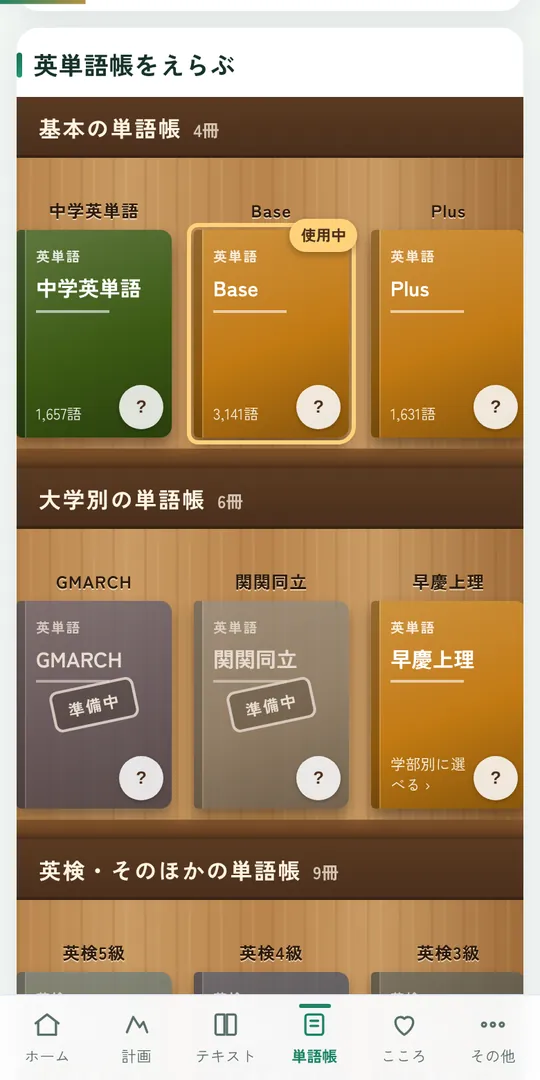
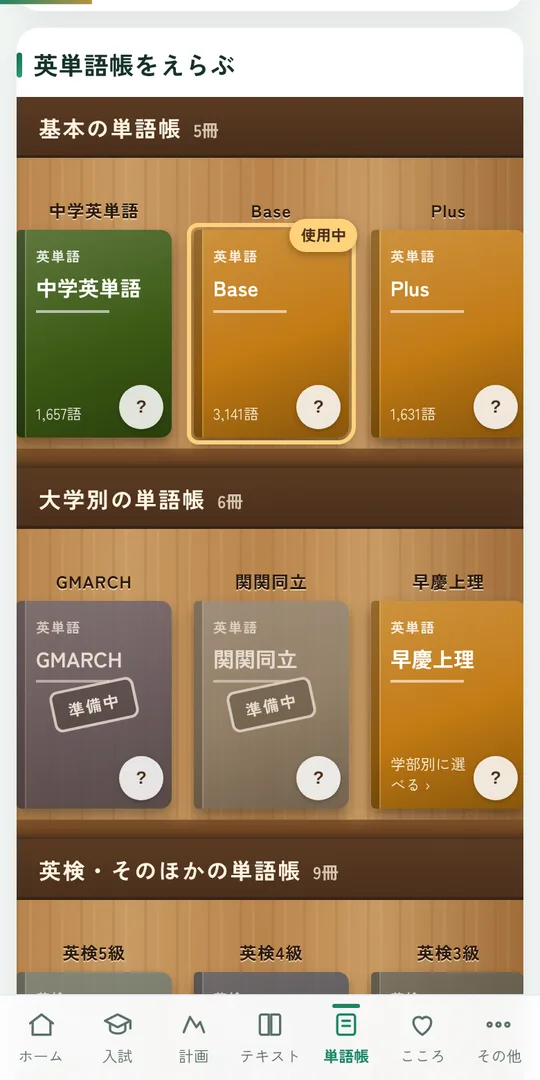
サービス紹介:ハイライトを作り替え(12グループ34枚)。歴史の教科書・入試と面接を新設し、テキスト・資料(日本史の地図)・単語帳(用語集と時代・地域で選ぶ)・一問一答(全教科)を最新の画面と説明に。PCでは丸を6個ずつ2段に
Claude-Session: https://claude.ai/code/session_01LBACWHU1zm5FViu8vPc4HC

diff --git a/home.html b/home.html
@@ -35,7 +35,7 @@
   <link rel="preconnect" href="https://fonts.googleapis.com">
   <link rel="preconnect" href="https://fonts.gstatic.com" crossorigin>
   <link href="https://fonts.googleapis.com/css2?family=Allura&family=Zen+Kaku+Gothic+New:wght@400;500;700&display=swap" rel="stylesheet">
-  <link rel="stylesheet" href="css/home.css?v=20261109j">
+  <link rel="stylesheet" href="css/home.css?v=20261111a">
 </head>
 <body>
   <script src="js/intro.js?v=20261108a"></script>
@@ -155,18 +155,18 @@
   <h2 class="ttl"><span class="en">Highlights</span><span class="ja">アプリでできること</span></h2>
   <p class="sec-lead">授業のない日も、アプリが「次にやること」を決めてくれます。<br class="pc">丸いアイコンをタップすると、実際の画面をストーリー形式で見られます。<br class="pc">画面の右上で、スマホ版とパソコン版を切りかえられます。</p>
   <ul class="hl-stats fade">
-    <li><em>テキスト</em><p><b data-stat="units">286</b><span>単元</span></p><small>中学〜高校の全単元に、<br>教科書レベルの解説</small></li>
-    <li><em>単語帳</em><p><b data-stat="words">32,040</b><span>語</span></p><small>英単語・英熟語・古文の<br>単語帳<span data-stat="books">24</span>冊</small></li>
+    <li><em>テキスト</em><p><b data-stat="units">286</b><span>単元</span></p><small>中学〜高校の全単元の解説と、<br>歴史の教科書3冊(84ページ)</small></li>
+    <li><em>単語帳</em><p><b data-stat="words">32,040</b><span>語</span></p><small>英単語・古文に、17冊の用語集。<br>単語帳<span data-stat="books">24</span>冊</small></li>
     <li><em>一問一答</em><p><b data-stat="hq">6,596</b><span>問</span></p><small>日本史<span data-stat="jhq">1,857</span>問・世界史<span data-stat="whq">2,156</span>問<br>ほか<span data-stat="iqn">8</span>教科<span data-stat="iq">2,583</span>問</small></li>
     <li><em>論述</em><p><b data-stat="ron">749</b><span>題</span></p><small>歴史・地理・公民<br>倫理・理科の論述</small></li>
   </ul>
-  <ul class="hl-circles" aria-label="ハイライト"><li><button type="button" class="hlc" data-hl="0" aria-label="ホーム のハイライトを見る(2枚)"><span class="hlc-ring"><img src="img/hl/home1_s.webp?v=20261109e" width="160" height="160" alt="Aqualium アプリの「ホーム」画面" loading="lazy"></span><b>ホーム</b></button></li><li><button type="button" class="hlc" data-hl="1" aria-label="分析 のハイライトを見る(3枚)"><span class="hlc-ring"><img src="img/hl/ana1_s.webp?v=20261109e" width="160" height="160" alt="Aqualium アプリの「分析」画面" loading="lazy"></span><b>分析</b></button></li><li><button type="button" class="hlc" data-hl="2" aria-label="テキスト のハイライトを見る(4枚)"><span class="hlc-ring"><img src="img/hl/txt3_s.webp?v=20261109e" width="160" height="160" alt="Aqualium アプリの「テキスト」画面" loading="lazy"></span><b>テキスト</b></button></li><li><button type="button" class="hlc" data-hl="3" aria-label="歴史の図解 のハイライトを見る(3枚)"><span class="hlc-ring"><img src="img/hl/zk1_s.webp?v=20261109e" width="160" height="160" alt="Aqualium アプリの「歴史の図解」画面" loading="lazy"></span><b>歴史の図解</b></button></li><li><button type="button" class="hlc" data-hl="4" aria-label="解説・資料 のハイライトを見る(3枚)"><span class="hlc-ring"><img src="img/hl/kit1_s.webp?v=20261109e" width="160" height="160" alt="Aqualium アプリの「解説・資料」画面" loading="lazy"></span><b>解説・資料</b></button></li><li><button type="button" class="hlc" data-hl="5" aria-label="計画 のハイライトを見る(3枚)"><span class="hlc-ring"><img src="img/hl/plan1_s.webp?v=20261109e" width="160" height="160" alt="Aqualium アプリの「計画」画面" loading="lazy"></span><b>計画</b></button></li><li><button type="button" class="hlc" data-hl="6" aria-label="単語帳 のハイライトを見る(3枚)"><span class="hlc-ring"><img src="img/hl/voc1_s.webp?v=20261109e" width="160" height="160" alt="Aqualium アプリの「単語帳」画面" loading="lazy"></span><b>単語帳</b></button></li><li><button type="button" class="hlc" data-hl="7" aria-label="日本史・世界史 のハイライトを見る(2枚)"><span class="hlc-ring"><img src="img/hl/his1_s.webp?v=20261109e" width="160" height="160" alt="Aqualium アプリの「日本史・世界史」画面" loading="lazy"></span><b>日本史・世界史</b></button></li><li><button type="button" class="hlc" data-hl="8" aria-label="模試モード のハイライトを見る(1枚)"><span class="hlc-ring"><img src="img/hl/mock1_s.webp?v=20261109e" width="160" height="160" alt="Aqualium アプリの「模試モード」画面" loading="lazy"></span><b>模試モード</b></button></li><li><button type="button" class="hlc" data-hl="9" aria-label="先生・保護者 のハイライトを見る(2枚)"><span class="hlc-ring"><img src="img/hl/tut1_s.webp?v=20261109e" width="160" height="160" alt="Aqualium アプリの「先生・保護者」画面" loading="lazy"></span><b>先生・保護者</b></button></li></ul>
-  <ul class="hl-list fade"><li><button type="button" class="hl-item" data-hl="0"><img class="hl-item-img" src="img/hl/home1_s.webp?v=20261109e" width="160" height="160" alt="Aqualium アプリの「ホーム」画面" loading="lazy"><span class="hl-item-n">01</span><b>ホーム</b><small>いま一番効果の高い学習を、アプリが1つだけ示します。迷ったら、ここを押すだけ。</small><em>2枚の画面を見る ▶</em></button></li><li><button type="button" class="hl-item" data-hl="1"><img class="hl-item-img" src="img/hl/ana1_s.webp?v=20261109e" width="160" height="160" alt="Aqualium アプリの「分析」画面" loading="lazy"><span class="hl-item-n">02</span><b>分析</b><small>現代文・古文・漢文、日本史・世界史…。科目ごとの正答率をレーダーチャートで。1か月前の自分とも比べられます。</small><em>3枚の画面を見る ▶</em></button></li><li><button type="button" class="hl-item" data-hl="2"><img class="hl-item-img" src="img/hl/txt3_s.webp?v=20261109e" width="160" height="160" alt="Aqualium アプリの「テキスト」画面" loading="lazy"><span class="hl-item-n">03</span><b>テキスト</b><small>中学から高校まで、科目ごとの教科書が本棚に並びます。全286単元に、知識ゼロから読める解説。</small><em>4枚の画面を見る ▶</em></button></li><li><button type="button" class="hl-item" data-hl="3"><img class="hl-item-img" src="img/hl/zk1_s.webp?v=20261109e" width="160" height="160" alt="Aqualium アプリの「歴史の図解」画面" loading="lazy"><span class="hl-item-n">04</span><b>歴史の図解</b><small>地域ごとの流れと、世界全体をまきこむ大事件を、色ブロックで1枚に。</small><em>3枚の画面を見る ▶</em></button></li><li><button type="button" class="hl-item" data-hl="4"><img class="hl-item-img" src="img/hl/kit1_s.webp?v=20261109e" width="160" height="160" alt="Aqualium アプリの「解説・資料」画面" loading="lazy"><span class="hl-item-n">05</span><b>解説・資料</b><small>答えのあとに「ほかの意味」やくわしい解説。元素の周期表と世界地図も、どのページからでも開けます。</small><em>3枚の画面を見る ▶</em></button></li><li><button type="button" class="hl-item" data-hl="5"><img class="hl-item-img" src="img/hl/plan1_s.webp?v=20261109e" width="160" height="160" alt="Aqualium アプリの「計画」画面" loading="lazy"><span class="hl-item-n">06</span><b>計画</b><small>志望校と受験日から、残り日数と目標を自動で設定します。</small><em>3枚の画面を見る ▶</em></button></li><li><button type="button" class="hl-item" data-hl="6"><img class="hl-item-img" src="img/hl/voc1_s.webp?v=20261109e" width="160" height="160" alt="Aqualium アプリの「単語帳」画面" loading="lazy"><span class="hl-item-n">07</span><b>単語帳</b><small>中学英単語・Base・Plus・英熟語・早慶上理(学部別)・古文単語。苦手だけを集めた「覚える単語帳」も作れます。</small><em>3枚の画面を見る ▶</em></button></li><li><button type="button" class="hl-item" data-hl="7"><img class="hl-item-img" src="img/hl/his1_s.webp?v=20261109e" width="160" height="160" alt="Aqualium アプリの「日本史・世界史」画面" loading="lazy"><span class="hl-item-n">08</span><b>日本史・世界史</b><small>時代(ヨコ)と分野(タテ)で範囲をしぼって出題。苦手な問題の聞き流しもできます。</small><em>2枚の画面を見る ▶</em></button></li><li><button type="button" class="hl-item" data-hl="8"><img class="hl-item-img" src="img/hl/mock1_s.webp?v=20261109e" width="160" height="160" alt="Aqualium アプリの「模試モード」画面" loading="lazy"><span class="hl-item-n">09</span><b>模試モード</b><small>時間を計って解き、最後にまとめて採点。科目別の得点率と時間配分を分析します。</small><em>1枚の画面を見る ▶</em></button></li><li><button type="button" class="hl-item" data-hl="9"><img class="hl-item-img" src="img/hl/tut1_s.webp?v=20261109e" width="160" height="160" alt="Aqualium アプリの「先生・保護者」画面" loading="lazy"><span class="hl-item-n">10</span><b>先生・保護者</b><small>苦手の原因・ミスの傾向・週のまとめを1枚に。授業や面談でそのまま使えます。</small><em>2枚の画面を見る ▶</em></button></li></ul>
+  <ul class="hl-circles" aria-label="ハイライト"><li><button type="button" class="hlc" data-hl="0" aria-label="ホーム のハイライトを見る(2枚)"><span class="hlc-ring"><img src="img/hl/home1_s.webp?v=20261109e" width="160" height="160" alt="Aqualium アプリの「ホーム」画面" loading="lazy"></span><b>ホーム</b></button></li><li><button type="button" class="hlc" data-hl="1" aria-label="分析 のハイライトを見る(3枚)"><span class="hlc-ring"><img src="img/hl/ana1_s.webp?v=20261109e" width="160" height="160" alt="Aqualium アプリの「分析」画面" loading="lazy"></span><b>分析</b></button></li><li><button type="button" class="hlc" data-hl="2" aria-label="テキスト のハイライトを見る(4枚)"><span class="hlc-ring"><img src="img/hl/txt1_s.webp?v=20261111a" width="160" height="160" alt="Aqualium アプリの「テキスト」画面" loading="lazy"></span><b>テキスト</b></button></li><li><button type="button" class="hlc" data-hl="3" aria-label="歴史の教科書 のハイライトを見る(3枚)"><span class="hlc-ring"><img src="img/hl/tb1_s.webp?v=20261111a" width="160" height="160" alt="Aqualium アプリの「歴史の教科書」画面" loading="lazy"></span><b>歴史の教科書</b></button></li><li><button type="button" class="hlc" data-hl="4" aria-label="歴史の図解 のハイライトを見る(3枚)"><span class="hlc-ring"><img src="img/hl/zk1_s.webp?v=20261109e" width="160" height="160" alt="Aqualium アプリの「歴史の図解」画面" loading="lazy"></span><b>歴史の図解</b></button></li><li><button type="button" class="hlc" data-hl="5" aria-label="解説・資料 のハイライトを見る(4枚)"><span class="hlc-ring"><img src="img/hl/kit1_s.webp?v=20261109e" width="160" height="160" alt="Aqualium アプリの「解説・資料」画面" loading="lazy"></span><b>解説・資料</b></button></li><li><button type="button" class="hlc" data-hl="6" aria-label="計画 のハイライトを見る(3枚)"><span class="hlc-ring"><img src="img/hl/plan1_s.webp?v=20261109e" width="160" height="160" alt="Aqualium アプリの「計画」画面" loading="lazy"></span><b>計画</b></button></li><li><button type="button" class="hlc" data-hl="7" aria-label="単語帳 のハイライトを見る(4枚)"><span class="hlc-ring"><img src="img/hl/voc1_s.webp?v=20261111a" width="160" height="160" alt="Aqualium アプリの「単語帳」画面" loading="lazy"></span><b>単語帳</b></button></li><li><button type="button" class="hlc" data-hl="8" aria-label="一問一答・論述 のハイライトを見る(3枚)"><span class="hlc-ring"><img src="img/hl/iq0_s.webp?v=20261111a" width="160" height="160" alt="Aqualium アプリの「一問一答・論述」画面" loading="lazy"></span><b>一問一答・論述</b></button></li><li><button type="button" class="hlc" data-hl="9" aria-label="入試・面接 のハイライトを見る(2枚)"><span class="hlc-ring"><img src="img/hl/ex1_s.webp?v=20261111a" width="160" height="160" alt="Aqualium アプリの「入試・面接」画面" loading="lazy"></span><b>入試・面接</b></button></li><li><button type="button" class="hlc" data-hl="10" aria-label="模試モード のハイライトを見る(1枚)"><span class="hlc-ring"><img src="img/hl/mock1_s.webp?v=20261109e" width="160" height="160" alt="Aqualium アプリの「模試モード」画面" loading="lazy"></span><b>模試モード</b></button></li><li><button type="button" class="hlc" data-hl="11" aria-label="先生・保護者 のハイライトを見る(2枚)"><span class="hlc-ring"><img src="img/hl/tut1_s.webp?v=20261109e" width="160" height="160" alt="Aqualium アプリの「先生・保護者」画面" loading="lazy"></span><b>先生・保護者</b></button></li></ul>
+  <ul class="hl-list fade"><li><button type="button" class="hl-item" data-hl="0"><img class="hl-item-img" src="img/hl/home1_s.webp?v=20261109e" width="160" height="160" alt="Aqualium アプリの「ホーム」画面" loading="lazy"><span class="hl-item-n">01</span><b>ホーム</b><small>いま一番効果の高い学習を、アプリが1つだけ示します。迷ったら、ここを押すだけ。</small><em>2枚の画面を見る ▶</em></button></li><li><button type="button" class="hl-item" data-hl="1"><img class="hl-item-img" src="img/hl/ana1_s.webp?v=20261109e" width="160" height="160" alt="Aqualium アプリの「分析」画面" loading="lazy"><span class="hl-item-n">02</span><b>分析</b><small>現代文・古文・漢文、日本史・世界史…。科目ごとの正答率をレーダーチャートで。1か月前の自分とも比べられます。</small><em>3枚の画面を見る ▶</em></button></li><li><button type="button" class="hl-item" data-hl="2"><img class="hl-item-img" src="img/hl/txt1_s.webp?v=20261111a" width="160" height="160" alt="Aqualium アプリの「テキスト」画面" loading="lazy"><span class="hl-item-n">03</span><b>テキスト</b><small>中学から高校まで、科目ごとの教科書が本棚に。全286単元に、知識ゼロから読める解説。数学は「別の解き方」も。</small><em>4枚の画面を見る ▶</em></button></li><li><button type="button" class="hl-item" data-hl="3"><img class="hl-item-img" src="img/hl/tb1_s.webp?v=20261111a" width="160" height="160" alt="Aqualium アプリの「歴史の教科書」画面" loading="lazy"><span class="hl-item-n">04</span><b>歴史の教科書</b><small>世界史は「世紀別(横)」と「国別(縦)」の2冊、日本史は「通史」。全84ページ・約40万字で、流れをていねいに。</small><em>3枚の画面を見る ▶</em></button></li><li><button type="button" class="hl-item" data-hl="4"><img class="hl-item-img" src="img/hl/zk1_s.webp?v=20261109e" width="160" height="160" alt="Aqualium アプリの「歴史の図解」画面" loading="lazy"><span class="hl-item-n">05</span><b>歴史の図解</b><small>地域ごとの流れと、世界全体をまきこむ大事件を、色ブロックで1枚に。</small><em>3枚の画面を見る ▶</em></button></li><li><button type="button" class="hl-item" data-hl="5"><img class="hl-item-img" src="img/hl/kit1_s.webp?v=20261109e" width="160" height="160" alt="Aqualium アプリの「解説・資料」画面" loading="lazy"><span class="hl-item-n">06</span><b>解説・資料</b><small>答えのあとに「ほかの意味」やくわしい解説。周期表、世界史・日本史の地図も、どのページからでも開けます。</small><em>4枚の画面を見る ▶</em></button></li><li><button type="button" class="hl-item" data-hl="6"><img class="hl-item-img" src="img/hl/plan1_s.webp?v=20261109e" width="160" height="160" alt="Aqualium アプリの「計画」画面" loading="lazy"><span class="hl-item-n">07</span><b>計画</b><small>志望校と受験日から、残り日数と目標を自動で設定します。</small><em>3枚の画面を見る ▶</em></button></li><li><button type="button" class="hl-item" data-hl="7"><img class="hl-item-img" src="img/hl/voc1_s.webp?v=20261111a" width="160" height="160" alt="Aqualium アプリの「単語帳」画面" loading="lazy"><span class="hl-item-n">08</span><b>単語帳</b><small>英単語・古文単語に加えて、現代文・漢文・歴史・地理・理科・情報など17冊の用語集。合計3万語以上。</small><em>4枚の画面を見る ▶</em></button></li><li><button type="button" class="hl-item" data-hl="8"><img class="hl-item-img" src="img/hl/iq0_s.webp?v=20261111a" width="160" height="160" alt="Aqualium アプリの「一問一答・論述」画面" loading="lazy"><span class="hl-item-n">09</span><b>一問一答・論述</b><small>一問一答は日本史・世界史から理科・倫理・文学史まで10教科6,596問。論述は9教科749題。</small><em>3枚の画面を見る ▶</em></button></li><li><button type="button" class="hl-item" data-hl="9"><img class="hl-item-img" src="img/hl/ex1_s.webp?v=20261111a" width="160" height="160" alt="Aqualium アプリの「入試・面接」画面" loading="lazy"><span class="hl-item-n">10</span><b>入試・面接</b><small>入試の日程・方式・科目と、面接対策。大学・文部科学省などの公開情報から、出典つきでまとめています。</small><em>2枚の画面を見る ▶</em></button></li><li><button type="button" class="hl-item" data-hl="10"><img class="hl-item-img" src="img/hl/mock1_s.webp?v=20261109e" width="160" height="160" alt="Aqualium アプリの「模試モード」画面" loading="lazy"><span class="hl-item-n">11</span><b>模試モード</b><small>時間を計って解き、最後にまとめて採点。科目別の得点率と時間配分を分析します。</small><em>1枚の画面を見る ▶</em></button></li><li><button type="button" class="hl-item" data-hl="11"><img class="hl-item-img" src="img/hl/tut1_s.webp?v=20261109e" width="160" height="160" alt="Aqualium アプリの「先生・保護者」画面" loading="lazy"><span class="hl-item-n">12</span><b>先生・保護者</b><small>苦手の原因・ミスの傾向・週のまとめを1枚に。授業や面談でそのまま使えます。</small><em>2枚の画面を見る ▶</em></button></li></ul>
   <div class="hl-cta fade">
     <p>気になる機能は見つかりましたか?<br>まずは無料体験で、<br class="sp">実際に使ってみてください。</p>
     <a href="#contact" class="btn btn-primary">無料体験を申し込む</a>
   </div>
-  <script type="application/json" id="hlData">[{"id": "home", "name": "ホーム", "slides": [{"img": "img/hl/home1.webp?v=20261109e", "t": "次の一手", "d": "いま一番効果の高い学習を、アプリが1つだけ示します。迷ったら、ここを押すだけ。"}, {"img": "img/hl/home3.webp?v=20261109e", "t": "診断・練習", "d": "ホームの上のタブで切りかえ。診断テストで、中学の単元までさかのぼって苦手の原因を探します。"}]}, {"id": "ana", "name": "分析", "slides": [{"img": "img/hl/ana1.webp?v=20261109e", "t": "科目バランス", "d": "現代文・古文・漢文、日本史・世界史…。科目ごとの正答率をレーダーチャートで。1か月前の自分とも比べられます。"}, {"img": "img/hl/ana2.webp?v=20261109e", "t": "ミスの原因", "d": "「ケアレスミス」「覚えていなかった」など、まちがえた理由を集計。いちばん多い原因と対策がわかります。"}, {"img": "img/hl/ana3.webp?v=20261109e", "t": "今週のまとめ", "d": "学習日数・時間・解いた問題・正答率を、先週と比べて表示。伸びたところがひと目でわかります。"}]}, {"id": "txt", "name": "テキスト", "slides": [{"img": "img/hl/txt1.webp?v=20261109e", "t": "科目ごとの本棚", "d": "中学から高校まで、科目ごとの教科書が本棚に並びます。続きからすぐ読めます。"}, {"img": "img/hl/txt2.webp?v=20261109e", "t": "目次", "d": "章と単元の一覧。読んだ単元・しおり・苦手な単元に印がつきます。"}, {"img": "img/hl/txt3.webp?v=20261109e", "t": "知識ゼロから読める本文", "d": "「できるようになること → イメージ → 説明」の順。全286単元に解説があります。"}, {"img": "img/hl/txt4.webp?v=20261109e", "t": "黒板の例題", "d": "考え方を1手順ずつ。読み終えたら、そのまま確認問題を解けます。"}]}, {"id": "zk", "name": "歴史の図解", "slides": [{"img": "img/hl/zk1.webp?v=20261109e", "t": "世界史の流れ", "d": "地域ごとの流れと、世界全体をまきこむ大事件を、色ブロックで1枚に。"}, {"img": "img/hl/zk2.webp?v=20261109e", "t": "模式地図", "d": "清の直轄領・藩部・朝貢国などを、位置関係で整理します。"}, {"img": "img/hl/zk3.webp?v=20261109e", "t": "因果の鎖", "d": "背景 → できごと → 結果 → その後。なぜ起きて、どうなったかがつながります。"}]}, {"id": "kit", "name": "解説・資料", "slides": [{"img": "img/hl/kit1.webp?v=20261109e", "t": "もっと知る", "d": "答えたあとに、くわしい解説と、語句の「ほかの意味」・使い方を表示。1語から何倍も学べます。"}, {"img": "img/hl/kit2.webp?v=20261109e", "t": "元素の周期表", "d": "どのページを開いていても、すぐに呼び出せます。元素を押すと、原子量・分類・常温での状態まで。"}, {"img": "img/hl/kit3.webp?v=20261111a", "t": "世界史の領土地図", "d": "前3400年から2024年まで、国と領土の移り変わりを1年・10年・100年単位で。年を入れるか、できごとを選ぶとその年の勢力図に。国を押すと、年を変えても色をつけたまま追いかけます。"}]}, {"id": "plan", "name": "計画", "slides": [{"img": "img/hl/plan1.webp?v=20261109e", "t": "逆算ロードマップ", "d": "志望校と受験日から、残り日数と目標を自動で設定します。"}, {"img": "img/hl/plan2.webp?v=20261109e", "t": "受験日までのタイムライン", "d": "単元・英単語・古文単語・一問一答の進め方を、1本の線で見渡せます。"}, {"img": "img/hl/plan3.webp?v=20261109e", "t": "単元マップ", "d": "全単元の定着度を色で表示。忘れかけている単元もすぐ見つかります。"}]}, {"id": "voc", "name": "単語帳", "slides": [{"img": "img/hl/voc1.webp?v=20261109e", "t": "単語帳を選ぶ", "d": "中学英単語・Base・Plus・英熟語・早慶上理(学部別)・古文単語。苦手だけを集めた「覚える単語帳」も作れます。"}, {"img": "img/hl/voc2.webp?v=20261109e", "t": "学び方を選ぶ", "d": "赤シート・苦手選別・聞き流し・スワイプなど、気分や場所に合わせて選べます。"}, {"img": "img/hl/voc3.webp?v=20261109e", "t": "4択テスト", "d": "テンポよく答えて、まちがえた語は自動で復習に回ります。"}]}, {"id": "his", "name": "日本史・世界史", "slides": [{"img": "img/hl/his1.webp?v=20261109e", "t": "一問一答", "d": "時代(ヨコ)と分野(タテ)で範囲をしぼって出題。苦手な問題の聞き流しもできます。"}, {"img": "img/hl/his2.webp?v=20261109e", "t": "論述トレーニング", "d": "答えを考えてから、模範解答のキーワードで自己採点します。"}]}, {"id": "mock", "name": "模試モード", "slides": [{"img": "img/hl/mock1.webp?v=20261109e", "t": "本番形式の模試", "d": "時間を計って解き、最後にまとめて採点。科目別の得点率と時間配分を分析します。"}]}, {"id": "tut", "name": "先生・保護者", "slides": [{"img": "img/hl/tut1.webp?v=20261109e", "t": "指導分析レポート", "d": "苦手の原因・ミスの傾向・週のまとめを1枚に。授業や面談でそのまま使えます。"}, {"img": "img/hl/tut2.webp?v=20261109e", "t": "学習の記録", "d": "日別の解答数や科目バランスを、先生・保護者と共有できます。"}]}]</script>
+  <script type="application/json" id="hlData">[{"id": "home", "name": "ホーム", "slides": [{"img": "img/hl/home1.webp?v=20261109e", "t": "次の一手", "d": "いま一番効果の高い学習を、アプリが1つだけ示します。迷ったら、ここを押すだけ。"}, {"img": "img/hl/home3.webp?v=20261109e", "t": "診断・練習", "d": "ホームの上のタブで切りかえ。診断テストで、中学の単元までさかのぼって苦手の原因を探します。"}]}, {"id": "ana", "name": "分析", "slides": [{"img": "img/hl/ana1.webp?v=20261109e", "t": "科目バランス", "d": "現代文・古文・漢文、日本史・世界史…。科目ごとの正答率をレーダーチャートで。1か月前の自分とも比べられます。"}, {"img": "img/hl/ana2.webp?v=20261109e", "t": "ミスの原因", "d": "「ケアレスミス」「覚えていなかった」など、まちがえた理由を集計。いちばん多い原因と対策がわかります。"}, {"img": "img/hl/ana3.webp?v=20261109e", "t": "今週のまとめ", "d": "学習日数・時間・解いた問題・正答率を、先週と比べて表示。伸びたところがひと目でわかります。"}]}, {"id": "txt", "name": "テキスト", "slides": [{"img": "img/hl/txt1.webp?v=20261111a", "t": "科目ごとの本棚", "d": "中学から高校まで、科目ごとの教科書が本棚に並びます。歴史の教科書3冊と「面接対策」の本も入りました。"}, {"img": "img/hl/txt2.webp?v=20261109e", "t": "目次", "d": "章と単元の一覧。読んだ単元・しおり・苦手な単元に印がつきます。"}, {"img": "img/hl/txt3.webp?v=20261109e", "t": "知識ゼロから読める本文", "d": "「できるようになること → イメージ → 説明」の順。全286単元に解説があります。"}, {"img": "img/hl/txt4.webp?v=20261109e", "t": "黒板の例題", "d": "考え方を1手順ずつ。数学は「別の解き方」もトグルで見られます。読み終えたら、そのまま確認問題へ。"}]}, {"id": "tb", "name": "歴史の教科書", "slides": [{"img": "img/hl/tb1.webp?v=20261111a", "t": "世界史 横の教科書(世紀別)", "d": "「3世紀の世界」「17世紀の世界」のように時代を輪切りに。同じころの各地域のできごとを並べて比べられます。"}, {"img": "img/hl/tb2.webp?v=20261111a", "t": "世界史 縦の教科書(国別)", "d": "イギリス史・ロシア史・タイ史・ラテンアメリカ史など31の国・地域を、はじまりから現代まで。流れの図つき。"}, {"img": "img/hl/tb3.webp?v=20261111a", "t": "日本史 流れの教科書(通史)", "d": "旧石器時代から現在までを26の時期に。「なぜそうなったか → どうなったか」がつながります。確認テストと地図つき。"}]}, {"id": "zk", "name": "歴史の図解", "slides": [{"img": "img/hl/zk1.webp?v=20261109e", "t": "世界史の流れ", "d": "地域ごとの流れと、世界全体をまきこむ大事件を、色ブロックで1枚に。"}, {"img": "img/hl/zk2.webp?v=20261109e", "t": "模式地図", "d": "清の直轄領・藩部・朝貢国などを、位置関係で整理します。"}, {"img": "img/hl/zk3.webp?v=20261109e", "t": "因果の鎖", "d": "背景 → できごと → 結果 → その後。なぜ起きて、どうなったかがつながります。"}]}, {"id": "kit", "name": "解説・資料", "slides": [{"img": "img/hl/kit1.webp?v=20261109e", "t": "もっと知る", "d": "答えたあとに、くわしい解説と、語句の「ほかの意味」・使い方を表示。1語から何倍も学べます。"}, {"img": "img/hl/kit2.webp?v=20261109e", "t": "元素の周期表", "d": "どのページを開いていても、すぐに呼び出せます。元素を押すと、原子量・分類・常温での状態まで。"}, {"img": "img/hl/kit3.webp?v=20261111a", "t": "世界史の領土地図", "d": "前3400年から2024年まで、国と領土の移り変わりを1年・10年・100年単位で。年を入れるか、できごとを選ぶとその年の勢力図に。国を押すと、年を変えても色をつけたまま追いかけます。"}, {"img": "img/hl/kit4.webp?v=20261111a", "t": "日本史の地図", "d": "旧国名、政権と領土(250〜2024年)、戦国大名(1560〜1600年)の3つ。海外領土があった年は自動で広く表示します。"}]}, {"id": "plan", "name": "計画", "slides": [{"img": "img/hl/plan1.webp?v=20261109e", "t": "逆算ロードマップ", "d": "志望校と受験日から、残り日数と目標を自動で設定します。"}, {"img": "img/hl/plan2.webp?v=20261109e", "t": "受験日までのタイムライン", "d": "単元・英単語・古文単語・一問一答の進め方を、1本の線で見渡せます。"}, {"img": "img/hl/plan3.webp?v=20261109e", "t": "単元マップ", "d": "全単元の定着度を色で表示。忘れかけている単元もすぐ見つかります。"}]}, {"id": "voc", "name": "単語帳", "slides": [{"img": "img/hl/voc1.webp?v=20261111a", "t": "単語帳を選ぶ", "d": "中学英単語・Base・Plus・英熟語・早慶上理(学部別)・英検。国語・社会・理科・情報の用語集も本棚に並びます。"}, {"img": "img/hl/voc4.webp?v=20261111a", "t": "時代・地域で選ぶ", "d": "世界史3,000語・日本史3,334語。「近世 × ヨーロッパ」のように範囲をしぼれて、4択の誤答も同じ時代・地域から出ます。"}, {"img": "img/hl/voc2.webp?v=20261109e", "t": "学び方を選ぶ", "d": "赤シート・苦手選別・聞き流し・スワイプなど。読み上げは自然な声を優先して選びます。"}, {"img": "img/hl/voc3.webp?v=20261109e", "t": "4択テスト", "d": "テンポよく答えて、まちがえた語は自動で復習に回ります。"}]}, {"id": "his", "name": "一問一答・論述", "slides": [{"img": "img/hl/iq0.webp?v=20261111a", "t": "全教科の一問一答", "d": "地理・公共政経・倫理・文学史・物理・化学・生物・地学も。教科を選んで、分野でしぼって出題します。"}, {"img": "img/hl/his1.webp?v=20261109e", "t": "日本史・世界史", "d": "時代(ヨコ)と分野(タテ)で範囲をしぼって出題。苦手な問題の聞き流しもできます。"}, {"img": "img/hl/his2.webp?v=20261109e", "t": "論述トレーニング", "d": "答えを考えてから、模範解答のキーワードで自己採点します。"}]}, {"id": "ex", "name": "入試・面接", "slides": [{"img": "img/hl/ex1.webp?v=20261111a", "t": "入試のしくみ", "d": "スケジュール・入試方式・受験科目・方式ごとの対策・出願チェックまで、1ページで。下のメニューからすぐ開けます。"}, {"img": "img/hl/ex2.webp?v=20261111a", "t": "面接対策", "d": "よく聞かれる質問の答え方とNG例、推薦入試の本質的な勝ち方、マナーまで。2027年度からの面接の原則必須化にも対応。"}]}, {"id": "mock", "name": "模試モード", "slides": [{"img": "img/hl/mock1.webp?v=20261109e", "t": "本番形式の模試", "d": "時間を計って解き、最後にまとめて採点。科目別の得点率と時間配分を分析します。"}]}, {"id": "tut", "name": "先生・保護者", "slides": [{"img": "img/hl/tut1.webp?v=20261109e", "t": "指導分析レポート", "d": "苦手の原因・ミスの傾向・週のまとめを1枚に。授業や面談でそのまま使えます。"}, {"img": "img/hl/tut2.webp?v=20261109e", "t": "学習の記録", "d": "日別の解答数や科目バランスを、先生・保護者と共有できます。"}]}]</script>
 </section>
 
 <!-- ========== Point ========== -->

diff --git a/css/home.css b/css/home.css
@@ -608,3 +608,5 @@ body.sv-open { overflow: hidden; }
 .bank-mail > span small { font-size: 11px; font-weight: 500; color: var(--muted); letter-spacing: .04em; }
 @media (max-width: 640px) { .bank > div { grid-template-columns: 6em minmax(0, 1fr); } .bank dt, .bank dd { padding: 8px 10px; } }
 .bank dd small { display: block; font-size: 12px; font-weight: 500; color: var(--muted); }
+/* ハイライトの丸:パソコンでは6個ずつ2段にそろえる(1個だけ次の段に残らないように) */
+@media (min-width: 900px) { .hl-circles { display: grid; grid-template-columns: repeat(6, minmax(0, 1fr)); justify-items: center; max-width: 860px; gap: 20px 12px; } }
